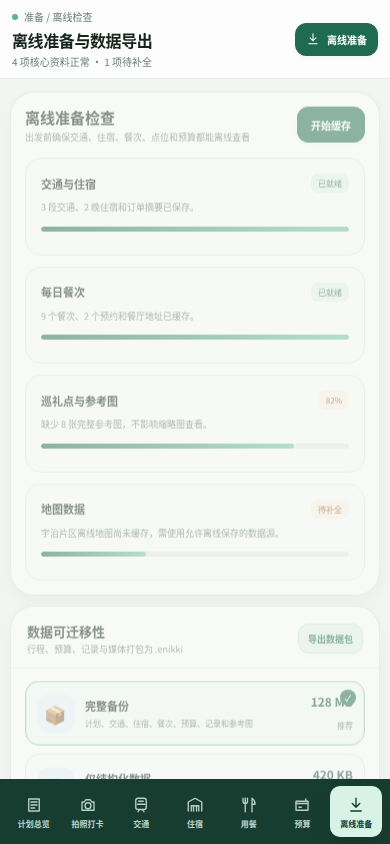
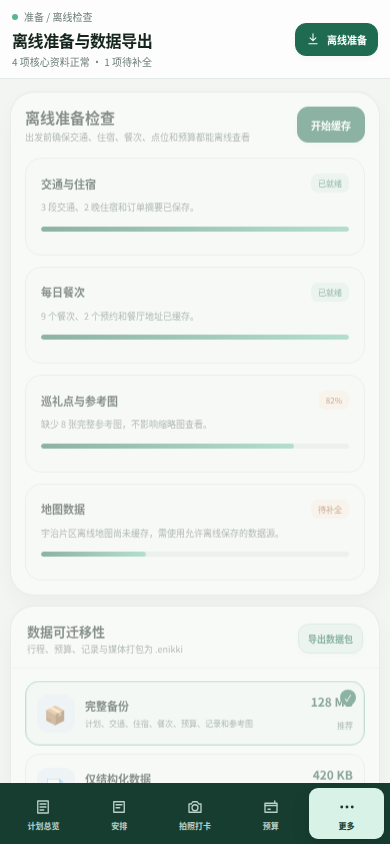
design: simplify mobile dock navigation

Changed region(s): [[0.0, 0.9242, 1.0, 1.0]]

diff --git a/design/enikki-ui.html b/design/enikki-ui.html
@@ -111,6 +111,16 @@ button,input{font:inherit}button{border:0;cursor:pointer}svg{display:block}
   .checkin-grid{display:block;height:auto}.checkin-main,.checkin-side{display:block}.checkin-main>.card,.checkin-side>.card{margin-bottom:10px}.checkin-workspace{display:block;padding:10px}.camera-stage{min-height:360px}.checkin-controls{margin-top:10px}.photo-gallery{grid-template-columns:1fr 1fr;padding:0 10px 10px}.photo-tile{height:102px}.nav{grid-template-columns:repeat(7,minmax(0,1fr))}
 }
 
+.mobile-only{display:none!important}.mobile-sheet-backdrop{position:fixed;inset:0;z-index:45;display:none;background:rgba(18,37,30,.32);backdrop-filter:blur(3px)}.mobile-sheet-backdrop.open{display:block}.mobile-sheet{position:absolute;left:0;right:0;bottom:0;padding:10px 12px calc(16px + env(safe-area-inset-bottom));border-radius:22px 22px 0 0;background:#fff;box-shadow:0 -18px 50px rgba(25,50,40,.2);transform:translateY(105%);transition:transform .22s ease}.mobile-sheet-backdrop.open .mobile-sheet{transform:none}.sheet-handle{width:38px;height:4px;margin:0 auto 12px;border-radius:99px;background:#d5dfda}.mobile-sheet h3{margin:0 0 11px;font-size:13px}.sheet-grid{display:grid;grid-template-columns:repeat(3,1fr);gap:8px}.sheet-action{display:flex;flex-direction:column;align-items:center;gap:7px;padding:12px 6px;border:1px solid #e5ebe7;border-radius:14px;color:#40564d;background:#fafcfb;font-size:9px;font-weight:750}.sheet-action i{width:34px;height:34px;display:grid;place-items:center;border-radius:11px;color:var(--green);background:var(--green-soft);font-size:15px;font-style:normal}.sheet-action.primary i{color:#fff;background:var(--green)}.sheet-action small{display:block;color:var(--muted);font-size:7px;font-weight:500}
+@media(max-width:760px){
+  .app-shell{grid-template-rows:minmax(0,1fr) calc(61px + env(safe-area-inset-bottom))}
+  .sidebar{padding:5px 6px calc(5px + env(safe-area-inset-bottom))}
+  .nav{grid-template-columns:repeat(5,minmax(0,1fr));gap:1px}
+  .nav button{padding:4px 1px;border-radius:9px}.nav button.desktop-only{display:none}.nav .mobile-only{display:flex!important}
+  .nav button[data-view="planner"]{order:1}.nav .mobile-arrange{order:2}.nav button[data-view="checkin"]{order:3}.nav button[data-view="budget"]{order:4}.nav .mobile-more{order:5}
+  .nav button[data-view="checkin"].active{background:#bcebd7}.nav .ico{height:19px}.nav b{font-size:8px}
+}
+
 </style>
 </head>
 <body>
@@ -135,15 +145,15 @@ button,input{font:inherit}button{border:0;cursor:pointer}svg{display:block}
         <span class="ico"><svg viewBox="0 0 24 24"><path d="M4 8h3l2-3h6l2 3h3v11H4z"/><circle cx="12" cy="13" r="4"/></svg></span>
         <b>拍照打卡</b><em>7/11</em>
       </button>
-      <button data-view="transport">
+      <button class="desktop-only" data-view="transport">
         <span class="ico"><svg viewBox="0 0 24 24"><rect x="5" y="3" width="14" height="15" rx="3"/><path d="M8 21l2-3M16 21l-2-3M7 11h10M9 7h6"/></svg></span>
         <b>交通</b><em>8 段</em>
       </button>
-      <button data-view="lodging">
+      <button class="desktop-only" data-view="lodging">
         <span class="ico"><svg viewBox="0 0 24 24"><path d="M3 20V8l9-5 9 5v12"/><path d="M7 20v-7h10v7M10 13v7M14 13v7"/></svg></span>
         <b>住宿</b><em>2 晚</em>
       </button>
-      <button data-view="meals">
+      <button class="desktop-only" data-view="meals">
         <span class="ico"><svg viewBox="0 0 24 24"><path d="M7 3v8M4 3v4a3 3 0 006 0V3M7 11v10M16 3v18M16 3c3 2 4 5 4 8h-4"/></svg></span>
         <b>用餐</b><em>9 餐</em>
       </button>
@@ -152,9 +162,17 @@ button,input{font:inherit}button{border:0;cursor:pointer}svg{display:block}
         <b>预算</b><em>78%</em>
       </button>
       <div class="nav-label" style="margin-top:12px">出行准备</div>
-      <button data-view="offline">
+      <button class="desktop-only" data-view="offline">
         <span class="ico"><svg viewBox="0 0 24 24"><path d="M12 3v12M7 10l5 5 5-5"/><path d="M5 20h14"/></svg></span>
         <b>离线准备</b><em>82%</em>
+      </button>
+      <button class="mobile-only mobile-arrange" data-mobile-target="arrange" data-mobile-sheet="arrange">
+        <span class="ico"><svg viewBox="0 0 24 24"><path d="M5 5h14v14H5z"/><path d="M8 9h8M8 13h5"/></svg></span>
+        <b>安排</b>
+      </button>
+      <button class="mobile-only mobile-more" data-mobile-target="more" data-mobile-sheet="more">
+        <span class="ico"><svg viewBox="0 0 24 24"><circle cx="5" cy="12" r="1"/><circle cx="12" cy="12" r="1"/><circle cx="19" cy="12" r="1"/></svg></span>
+        <b>更多</b>
       </button>
     </nav>
     <div class="sidebar-foot">
@@ -577,6 +595,13 @@ button,input{font:inherit}button{border:0;cursor:pointer}svg{display:block}
     </section>
   </main>
 </div>
+<div class="mobile-sheet-backdrop" id="mobileSheetBackdrop" onclick="closeMobileSheet(event)">
+  <div class="mobile-sheet" role="dialog" aria-modal="true" onclick="event.stopPropagation()">
+    <div class="sheet-handle"></div>
+    <h3 id="mobileSheetTitle">安排</h3>
+    <div class="sheet-grid" id="mobileSheetGrid"></div>
+  </div>
+</div>
 <div class="toast" id="toast"></div>
 <script>
 const pageCopy = {
@@ -589,13 +614,21 @@ const pageCopy = {
   offline: ['准备 / 离线检查', '离线准备与数据导出', '4 项核心资料正常 · 1 项待补全']
 };
 
-const navButtons = document.querySelectorAll('[data-view]');
+const navButtons = document.querySelectorAll('.nav [data-view]');
 const views = document.querySelectorAll('.view');
+const mobileTargetByView = {
+  planner: 'planner', checkin: 'checkin', budget: 'budget',
+  transport: 'arrange', lodging: 'arrange', meals: 'arrange', offline: 'more'
+};
 
 function activateView(name, pushState = true) {
   if (!document.getElementById(`view-${name}`)) name = 'planner';
   views.forEach((view) => view.classList.toggle('active', view.id === `view-${name}`));
   navButtons.forEach((button) => button.classList.toggle('active', button.dataset.view === name));
+  const mobileTarget = mobileTargetByView[name];
+  document.querySelectorAll('[data-mobile-target]').forEach((button) => {
+    button.classList.toggle('active', button.dataset.mobileTarget === mobileTarget);
+  });
   const copy = pageCopy[name];
   document.getElementById('pageTitle').textContent = copy[1];
   document.getElementById('pageSubtitle').textContent = copy[2];
@@ -607,6 +640,57 @@ function activateView(name, pushState = true) {
 
 navButtons.forEach((button) => {
   button.addEventListener('click', () => activateView(button.dataset.view));
+});
+
+const mobileSheetData = {
+  arrange: [
+    { view: 'transport', icon: '🚄', label: '交通', note: '城际与市内' },
+    { view: 'lodging', icon: '🏨', label: '住宿', note: '酒店与通勤' },
+    { view: 'meals', icon: '🍵', label: '用餐', note: '餐次与预约' }
+  ],
+  more: [
+    { view: 'offline', icon: '↓', label: '离线准备', note: '缓存检查' },
+    { action: 'export', icon: '⇧', label: '导出数据', note: '.enikki' },
+    { action: 'settings', icon: '⚙', label: '设置', note: '偏好与隐私' }
+  ]
+};
+
+function openMobileSheet(type) {
+  const data = mobileSheetData[type] || mobileSheetData.arrange;
+  document.getElementById('mobileSheetTitle').textContent = type === 'more' ? '更多' : '安排';
+  document.getElementById('mobileSheetGrid').innerHTML = data.map((item) => `
+    <button class="sheet-action${item.view === 'checkin' ? ' primary' : ''}"
+      ${item.view ? `data-view="${item.view}"` : `data-action="${item.action}"`}>
+      <i>${item.icon}</i><span>${item.label}</span><small>${item.note}</small>
+    </button>`).join('');
+  document.getElementById('mobileSheetBackdrop').classList.add('open');
+}
+
+function closeMobileSheet(event) {
+  if (event && event.target !== event.currentTarget) return;
+  document.getElementById('mobileSheetBackdrop').classList.remove('open');
+}
+
+document.querySelectorAll('[data-mobile-sheet]').forEach((button) => {
+  button.addEventListener('click', () => openMobileSheet(button.dataset.mobileSheet));
+});
+
+document.getElementById('mobileSheetGrid').addEventListener('click', (event) => {
+  const viewButton = event.target.closest('[data-view]');
+  const actionButton = event.target.closest('[data-action]');
+  if (viewButton) {
+    activateView(viewButton.dataset.view);
+    closeMobileSheet();
+    return;
+  }
+  if (actionButton) {
+    closeMobileSheet();
+    toast(actionButton.dataset.action === 'export' ? '已生成 .enikki 导出预览' : '设置面板将在正式版本中提供');
+  }
+});
+
+document.addEventListener('keydown', (event) => {
+  if (event.key === 'Escape') closeMobileSheet();
 });
 
 document.querySelectorAll('.day-tabs button').forEach((button) => {
@@ -627,8 +711,11 @@ function toast(message) {
   toastTimer = setTimeout(() => element.classList.remove('show'), 2200);
 }
 
-const initialView = new URLSearchParams(location.search).get('view') || 'planner';
+const initialParams = new URLSearchParams(location.search);
+const initialView = initialParams.get('view') || 'planner';
 activateView(initialView, false);
+const initialSheet = initialParams.get('sheet');
+if (initialSheet) openMobileSheet(initialSheet);
 </script>
 </body>
 </html>

diff --git a/design/README.md b/design/README.md
@@ -55,7 +55,14 @@ enikki-ui.html?view=offline
 
 ![移动端六页总览](preview-mobile-overview.png)
 
-移动端采用地图优先、时间线下滑和底部导航布局，七个页面分别为：
+移动端采用地图优先、时间线下滑和五项底部导航布局：
+
+```text
+计划 | 安排 | 打卡 | 预算 | 更多
+```
+
+交通、住宿和用餐收进“安排”半屏面板，离线准备和其他设置收进“更多”面板。
+七个页面分别为：
 
 - [计划总览](preview-mobile.png)
 - [拍照打卡](preview-mobile-checkin.png)
@@ -64,6 +71,10 @@ enikki-ui.html?view=offline
 - [用餐安排](preview-mobile-meals.png)
 - [预算管理](preview-mobile-budget.png)
 - [离线准备](preview-mobile-offline.png)
+
+“安排”面板预览：
+
+![移动端安排面板](preview-mobile-arrange.png)
 
 ## 原型范围
 

diff --git a/README.md b/README.md
@@ -176,8 +176,8 @@ flowchart LR
 
 桌面七页设计总览见 [`design/preview-overview.png`](design/preview-overview.png)。
 
-手机七页设计总览见
-[`design/preview-mobile-overview.png`](design/preview-mobile-overview.png)。
+手机端使用“计划 / 安排 / 打卡 / 预算 / 更多”五项底栏，
+七页设计总览见 [`design/preview-mobile-overview.png`](design/preview-mobile-overview.png)。
 
 界面说明和单独预览见 [`design/README.md`](design/README.md)。
 
